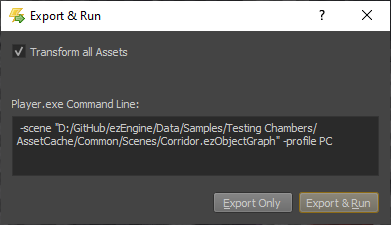
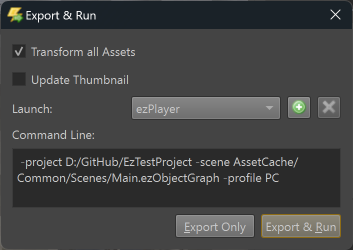
Various smaller updates about recent changes
Original commit: d71f58ced804a63b246f53e7b0889f1a1698aec6

diff --git a/pages/docs/materials/materials-overview.html b/pages/docs/materials/materials-overview.html
@@ -113,18 +113,21 @@
 <p>For testing transparent materials it may be useful to create an object in a scene and observe it there, where you can place it in front of different backgrounds.</p>
 <p><strong>Shading Mode:</strong> This mode allows you to select whether objects with this material should receive realistic <em>lighting</em> or should always appear <em>fullly bright</em>. The latter is useful for 2D sprites and UI elements.</p>
 <p><strong>Two Sided:</strong> If enabled, polygons with this material can be seen from both sides. This is useful for fences, vegetation and other <em>masked</em> geometry that is often represented only by a single polygon but can be looked at from both sides.</p>
-<p><strong>MaskThreshold:</strong> Used for the <em>Masked</em> blend mode (see above).</p>
-<p><strong>UseBaseTexture:</strong> If enabled, the <em>Base Texture</em> is used to color the object. This requires proper UV coordinates on the mesh.</p>
 <p><strong>Base Color:</strong> The base color of the material. When no <em>base texture</em> is used, this is its only color, otherwise it is multiplied into the base texture color.</p>
-<p><strong>UseNormalAndRoughnessTexture:</strong> If enabled, the shader uses the <em>Normal Texture</em> to apply <em>normal mapping</em> and the <em>Roughness Texture</em> to determine how rough the surface is. These affect the quality of lighting on the objects.</p>
-<p><strong>Roughness Value:</strong> If no <em>Roughness Texture</em> is given, this is the fallback roughness value to use for lighting. The rougher a material is (value closer to one), the more <em>diffuse</em> the lighting will be (stone, cloth, etc). The smoother the material is (value closer to zero), the more pronounced specular highlights it will have (glass, ceramic).</p>
-<p><strong>UseMetallicTexture:</strong> If enabled, a dedicated <em>Metallic Texture</em> is used to specify per pixel whether it is a metal or not. In physics, a material is either a metal or not, in computer graphics values in between are allowed and used to blend between the two results.</p>
-<p><strong>Metallic Value:</strong> If no <em>Metallic Texture</em> is provided, this is the fallback value. Typically this should be <code>1</code> for metals and <code>0</code> for all other material types.</p>
-<p><strong>UseEmissiveTexture:</strong> If enabled, the <em>Emissive Texture</em> is used to define per pixel where the material will <em>glow</em>. This is multiplied with the <em>EmissiveColor</em>, so make sure that is not set to black (its default).</p>
-<p><strong>EmissiveColor:</strong> An additional overall emissive color. If an <em>Emissive Texture</em> is activated, these two colors are multiplied, so you need to set this to <em>white</em> for the texture to have an effect. This is an HDR color, so you can scale up its <em>intensity</em> and thus pronounce the glow even further.</p>
+<p><strong>UseBaseTexture:</strong> If enabled, the <em>Base Texture</em> is used to color the object. This requires proper UV coordinates on the mesh.</p>
+<p><strong>MaskThreshold:</strong> Used for the <em>Masked</em> blend mode (see above).</p>
+<p><strong>UseNormalTexture:</strong> If enabled, the shader uses the <em>Normal Texture</em> to apply <em>normal mapping</em>.</p>
 <p><strong>UseOcclusionTexture:</strong> If enabled, an <em>OcclusionTexture</em> is used to affect lighting and to pronounce crevices. The effect of this can be very subtle.</p>
-<h2 id="render-modes">Render Modes</h2>
-<p>The 3D viewport of the material editor allows you to switch <a href="../editor/editor-views.html#render-modes">render modes</a> to inspect only specific aspects of the material.</p>
+<p><strong>Roughness Value:</strong> If no <em>Roughness Texture</em> is given, this value is used for lighting. If a roughness texture is available, this value is multiplied into the texture's value. The rougher a material is (value closer to one), the more <em>diffuse</em> the lighting will be (stone, cloth, etc). The smoother the material is (value closer to zero), the more pronounced specular highlights it will have (glass, ceramic).</p>
+<p><strong>UseRoughnessTexture:</strong> If enabled, the shader uses the <em>Roughness Texture</em> to determine how rough the surface is. The texture's value is multiplied with the <em>Roughness Value</em> so make sure to set that <code>1</code> to get the exact result.</p>
+<p><strong>Metallic Value:</strong> If no <em>Metallic Texture</em> is provided, this is the fallback value. Typically this should be <code>1</code> for metals and <code>0</code> for all other material types.</p>
+<p><strong>UseMetallicTexture:</strong> If enabled, a dedicated <em>Metallic Texture</em> is used to specify per pixel whether it is a metal or not. In physics, a material is either a metal or not, in computer graphics values in between are allowed and used to blend between the two results.</p>
+<p><strong>UseOrmTexture:</strong> If enabled, a dedicated <em>Occlusion / Roughness / Metallic (ORM) Texture</em> is used to specify these values per pixel. This takes precedence over the individual <em>UseOcclusionTexture</em>, <em>UseRoughnessTexture</em> and <em>UseMetallicTexture</em> options and if individual textures are also specified, they are not going to be used. ORM textures pack these three values into 3 channels (<em>Red = Occlusion</em>, <em>Green = Roughness</em>, <em>Blue</em> = <em>Metallic</em>) which is generally more efficient, though it means you can't have different resolutions for each texture.</p>
+<p><strong>EmissiveColor:</strong> An additional overall emissive color. If an <em>Emissive Texture</em> is activated, these two colors are multiplied, so you need to set this to <em>white</em> for the texture to have an effect. This is an HDR color, so you can scale up its <em>intensity</em> and thus pronounce the glow even further.</p>
+<p><strong>UseEmissiveTexture:</strong> If enabled, the <em>Emissive Texture</em> is used to define per pixel where the material will <em>glow</em>. This is multiplied with the <em>EmissiveColor</em>, so make sure that is not set to black (its default).</p>
+<h2 id="material-preview">Material Preview</h2>
+<p>The 3D viewport of the material editor allows you to switch the <a href="../editor/editor-views.html#render-modes">render mode</a> to inspect only specific aspects of the material.</p>
+<p>Using the <em>eye dropdown menu</em> you can also select different meshes for previewing the material on.</p>
 <h2 id="see-also">See Also</h2>
 <ul>
 <li><a href="visual-shaders.html">Visual Shaders (TODO)</a></li>

diff --git a/pages/docs/editor/run-scene.html b/pages/docs/editor/run-scene.html
@@ -88,7 +88,9 @@
 <p>Some objects will also be spawned by the simulation, and therefore are unknown to the editor side. Those objects cannot be picked or modified.</p>
 <p>In general, modifying the scene during simulation will work for some objects, and won't work for others. The only way to find out, is to try it. Once the simulation is stopped, though, all modifications will be applied as expected, to the reset scene.</p>
 <h3 id="keep-simulation-changes">Keep Simulation Changes</h3>
-<p>This mode is useful to quickly check how some object behaves. It can also be used to simulate physical objects (e.g. boxes falling down) and then to save that simulated transform to the scene, by selecting them and pressing <code>K</code> (or <em>Scene &gt; Utilities &gt; Keep Simulation Changes</em>).</p>
+<p>The <em>simulate mode</em> is useful to quickly check how some object behaves. It can also be used to simulate physical objects (e.g. boxes falling down) and then save that simulated transform to the scene.</p>
+<p>While the simulation is active, select the objects that you are interested in and press <code>K</code> (or <em>Scene &gt; Utilities &gt; Keep Simulation Changes</em>). Once you stop the simulation, an undoable action is executed that moves the selected objects to the recorded location.</p>
+<p>You can record multiple <em>keep changes</em> actions during one simulation.</p>
 <h2 id="play-the-game-mode">Play the Game Mode</h2>
 <p>The <em>Play-the-Game Mode</em> (PTG) is activated with the <em>Controller</em> button in the toolbar or by pressing <code>CTRL+F5</code>. It is deactivated with the <em>Stop</em> button in the editor toolbar, by pressing <code>ESC</code> while the PTG window has focus.</p>
 <p><img src="media/toolbar-simulate-buttons.png" alt="Toolbar buttons for scene simulation"></p>
@@ -101,6 +103,7 @@
 <p>Another way to test the scene is to export it to a binary format and run it in the <a href="../tools/player.html">ezPlayer</a>. You do so using <em>Scene &gt; Export and Run...</em> or by pressing <code>CTRL+E</code>.</p>
 <p><img src="media/export-and-run.png" alt="Export and Run"></p>
 <p>If you keep <code>Transform all Assets</code> checked, all <a href="../assets/assets-overview.html">assets</a> in the project will be <em>transformed</em> first, making sure they are up-to-date. You can uncheck this, to speed up the process, if you know that all assets that you require are up-to-date already.</p>
+<p><code>Update Thumbnail</code> will use the <a href="../graphics/camera-component.html">scene camera</a> with the <em>Thumbnail</em> usage hint, to create a scene thumbnail.</p>
 <p>Both <em>Simulate Mode</em> and <em>Play-the-Game Mode</em> run inside the editor process. Compared to a game running in a stand-alone process this has two drawbacks:</p>
 <ol>
 <li>The editor process limits the maximum framerate, and has some performance overhead of its own, so this is not useful for performance testing.</li>
@@ -110,6 +113,8 @@
 <p><strong>Important:</strong></p>
 <p>If a scene is composed of multiple <a href="../scenes/scene-layers.html">scene layers</a>, only the objects from the currently <em>loaded</em> layers are exported.</p>
 </blockquote>
+<h3 id="custom-player-executable">Custom Player Executable</h3>
+<p>In the <em>export and run</em> dialog you can add a custom executable to run instead of the default <a href="../tools/player.html">ezPlayer</a> application. Use this, if you have a custom game application. The command line used is the same as for ezPlayer as shown in the dialog.</p>
 <h2 id="see-also">See Also</h2>
 <ul>
 <li><a href="../tools/player.html">ezPlayer</a></li>

diff --git a/pages/docs/tools/player.html b/pages/docs/tools/player.html
@@ -80,12 +80,17 @@
             <article class="content wrap" id="_content" data-uid="">
 <h1 id="ezplayer">ezPlayer</h1>
 
-<p>The ezPlayer is a stand-alone application that can run any ezEngine game that is properly embedded in its own DLL. The ezEditor can launch a scene directly in the ezPlayer application. The ezPlayer is meant for testing and as a very slim example of how to write a custom game application.</p>
+<p>The ezPlayer is a stand-alone application that can run any ezEngine game that is properly embedded in its own DLL. The ezEditor can <a href="../editor/run-scene.html">launch a scene</a> directly in the ezPlayer application. The ezPlayer is meant for testing and as a very slim example of how to write a custom game application.</p>
 <h2 id="arguments">Arguments</h2>
 <p>The Player takes these command line arguments:</p>
-<pre><code class="lang-cmd">Player.exe -scene &quot;path/to/exported/scene.ezObjectGraph&quot; [-wnd &quot;optional/path/to/Window.ddl&quot;] [-profile &quot;OptionalAssetProfileName&quot;]
+<pre><code class="lang-cmd">Player.exe -project &quot;ProjectPath&quot; -scene &quot;ScenePath&quot; [-wnd &quot;optional/path/to/Window.ddl&quot;] [-profile &quot;OptionalAssetProfileName&quot;]
 </code></pre>
-<p>Typically you only need to pass the path to the <em>exported</em> scene (or prefab) file. The other options are used by the <a href="../../getting-started/editor-overview.html">ezEditor</a> to select different configurations.</p>
+<p>With:</p>
+<ul>
+<li><code>ProjectPath</code>: The absolute path to the project directory.</li>
+<li><code>ScenePath</code>: A relative path to a scene file. It is relative to the <a href="../projects/data-directories.html">data directory</a> that it resides in. If it is a path to an <code>.ezScene</code> or <code>.ezPrefab</code> file, ezPlayer automatically redirects the path to the corresponding exported <code>.ezObjectGraph</code> file in the <em>AssetCache</em>.</li>
+</ul>
+<p>Typically you only need to pass the path to the project and scene (or prefab) file. The other options are used by the <a href="../../getting-started/editor-overview.html">ezEditor</a> to select different configurations.</p>
 <h2 id="execution">Execution</h2>
 <p>The Player will automatically detect the <a href="../projects/projects-overview.html">projects</a> directory by searching the file system for an ezProject file. It then executes the core ezEngine functionality, meaning it reads the configuration for the <a href="../projects/data-directories.html">data directories</a> as well as the <a href="../custom-code/cpp/engine-plugins.html">engine plugins</a> from the project config files. If the scene requires custom (game) plugins, they must be referenced in those config files.</p>
 <p>Then it will execute the regular game loop. Thus, if the scene contains game objects to spawn a character controller or otherwise handle input and move the camera, you will be able to interact with it. If a custom <a href="../custom-code/cpp/engine-plugins.html">plugin</a> implements a custom <a href="../runtime/application/game-state.html">game state</a> that will be instantiated and can take full control over the application logic. If no such functionality is available, the Player will instantiate the <code>ezFallbackGameState</code> which will spawn a player object, if a <code>ezPlayerStartPointComponent</code> is part of the scene. Otherwise it will provide a simple WASD camera movement scheme. If <code>ezCameraComponent</code>s are placed in the scene, you can cycle through them using <code>Page Up</code> and <code>Page Down</code>.</p>

diff --git a/pages/docs/editor/editor-settings.html b/pages/docs/editor/editor-settings.html
@@ -89,15 +89,23 @@
 <ul>
 <li><p><strong>RestoreProjectOnStartup:</strong> If enabled, the editor will load the project that was open the last time.</p>
 </li>
+<li><p><strong>ShowSpashscreen:</strong> Disable this to not have a splashscreen show up every time the editor starts.</p>
+</li>
 <li><p><strong>BackgroundAssetProcessing:</strong> If set, background <a href="../assets/assets-overview.html">assets processing</a> will be activated by default, when you open a project.</p>
 </li>
 <li><p><strong>FieldOfView:</strong> The FOV of the generic editor camera.</p>
 </li>
 <li><p><strong>GizmoScale:</strong> Allows you to change the size of the editor gizmos.</p>
 </li>
-<li><p><strong>UsePrecompiledTools:</strong> If enabled, the editor will prefer to use the tools under <code>Data\\Tools\\Precompiled</code>, rather than the ones from its own binary directory. The precompiled tools are built with maximum optimizations and are therefore typically faster, however, they only get updated infrequently and may not have all the latest features and bugfixes.</p>
+<li><p><strong>ShowInDevelopmentFeatures:</strong> Some features (mainly <a href="../runtime/world/components.html">components</a>) are hidden by default from menus. That's because those features are not considered ready to be used productively. If you do want to try them out regardless, check this option for them to show up.</p>
+</li>
+<li><p><strong>UsePrecompiledTools:</strong> If enabled, the editor will prefer to use the tools under <code>Data\Tools\Precompiled</code>, rather than the ones from its own binary directory. The precompiled tools are built with maximum optimizations and are therefore typically faster, however, they only get updated infrequently and may not have all the latest features and bugfixes.</p>
 </li>
 <li><p><strong>ExpandSceneTreeOnSelection:</strong> If enabled, selecting an object in a scene will automatically expand the corresponding item in the scene tree view. If disabled, the scene tree will not change on selection from the viewport, and jumping to the selected tree item has to be done manually using <code>CTRL+T</code>.</p>
+</li>
+<li><p><strong>ClearEditorLogsOnPlay:</strong> If enabled, the engine log gets cleared every time you <a href="run-scene.html">run a scene</a>.</p>
+</li>
+<li><p><strong>Engine View Light Settings:</strong> Many <a href="../assets/assets-overview.html">assets</a> have 3D previews that require lighting. These are the lighting settings to use.</p>
 </li>
 </ul>
 <h2 id="shortcuts">Shortcuts</h2>

diff --git a/pages/docs/build/build-windows.html b/pages/docs/build/build-windows.html
@@ -97,7 +97,7 @@
 <li><em>.Net Desktop Development</em></li>
 </ul>
 <h3 id="cmake-optional">CMake (optional)</h3>
-<p><a href="https://cmake.org/">CMake</a> is used as the build system. On Windows you only need to install CMake, if you want to use the CMake GUI to choose custom <a href="cmake-config.html">CMake configurations</a>. If you only use the provided <code>GenerateXYZ.bat</code> scripts, those will use a <code>cmake.exe</code> that comes with the EZ repository.</p>
+<p><a href="https://cmake.org/">CMake</a> is used as the build system. On Windows you only need to install CMake if you want to use the CMake GUI to choose custom <a href="cmake-config.html">CMake configurations</a>. If you only use the provided <code>GenerateXYZ.bat</code> scripts, those will use a <code>cmake.exe</code> that comes with the EZ repository.</p>
 <h2 id="generate-the-solution">Generate the Solution</h2>
 <h3 id="using-the-generate-scripts">Using the Generate Scripts</h3>
 <p>In the root folder of the EZ repository you will find a couple of <code>.bat</code> files, such as:</p>
@@ -105,7 +105,7 @@
 <li><code>GenerateWin64vs2019.bat</code></li>
 <li><code>GenerateWin64vs2022.bat</code></li>
 </ul>
-<p>Run one of them to generate a Visual Studio solution for your preferred compiler. If these scripts fail, you most likely don't have all the <a href="#prerequisites">prerequisites</a> installed. They also sometimes fail, if Visual Studio recently installed an update and you haven't rebooted your PC since.</p>
+<p>Run one of them to generate a Visual Studio solution for your preferred compiler. If these scripts fail, you most likely don't have all the <a href="#prerequisites">prerequisites</a> installed. They also sometimes fail, if Visual Studio recently installed an update and you haven't rebooted your PC since. Usually when this script fails it is due to common issues with CMake or the MSVC installation. Read the error messages carefully and search the internet, you'll usually find a solution quickly.</p>
 <p>Once the script finished successfully, there will be a <strong>Workspace</strong> folder in the EZ root folder. You fill find a <code>ezEngine_***.sln</code> file in the respective folder for the Visual Studio version that you chose.</p>
 <h3 id="manually-running-cmake">Manually Running CMake</h3>
 <p>This step requires that you install <a href="#cmake-optional">CMake</a> yourself.</p>

diff --git a/pages/docs/physics/jolt/collision-shapes/jolt-collision-meshes.html b/pages/docs/physics/jolt/collision-shapes/jolt-collision-meshes.html
@@ -86,8 +86,10 @@
 <p><img src="../media/jolt-colmesh-concave.jpg" alt="Concave Collision Mesh"></p>
 <p>The image above shows a mesh imported as a concave collision mesh. As you can see it represents every detail faithfully. Due to this complexity, the model can only be used for static <a href="../actors/jolt-actors.html">physics actors</a>, meaning you can place it in a level, scale and rotate it, but you may not move it dynamically during the game and it cannot be used to simulate a rigid body. The complexity of a mesh has direct impact on the performance of the game. Especially small details may result in large computational costs when dynamic objects collide with those detailed areas. If you want to optimize performance, you should author dedicated collision meshes with reduced complexity, instead of using the render mesh directly.</p>
 <p>Concave collision meshes are set directly on the <a href="../actors/jolt-actors.html">static physics actor</a> component and have no dedicated <a href="jolt-shapes.html">physics shape</a> component.</p>
+<p>Triangle meshes can use a different <a href="../../../materials/surfaces.html">surface</a> for each submesh.</p>
 <h2 id="convex-collision-meshes">Convex Collision Meshes</h2>
 <p>The simulation of <a href="../actors/jolt-dynamic-actor-component.html">dynamic actors</a> is only possible with convex shapes. To create a convex collision mesh, use the asset type <em>Jolt Convex Collision Mesh</em> when <a href="../../../assets/import-assets.html">importing an asset</a>. To attach a convex mesh to an actor, use the <a href="jolt-convex-shape-component.html">convex mesh shape component</a>.</p>
+<p>Convex meshes may only use a single <a href="../../../materials/surfaces.html">surface</a>, even if the mesh is made up of multiple convex pieces.</p>
 <p>There are multiple modes how to create the convex collision mesh:</p>
 <h3 id="convex-hull">Convex Hull</h3>
 <p><img src="../media/jolt-colmesh-convex.jpg" alt="Convex Hull Collision Mesh"></p>
@@ -106,6 +108,7 @@
 <li><a href="../actors/jolt-actors.html">Jolt Physics Actors</a></li>
 <li><a href="jolt-collision-layers.html">Jolt Collision Layers</a></li>
 <li><a href="../jolt-debug-visualizations.html">Jolt Debug Visualizations</a></li>
+<li><a href="../../../materials/surfaces.html">Surfaces</a></li>
 </ul>
 </article>
           </div>

diff --git a/pages/docs/animation/skeletal-animation/skeletal-animation-overview.html b/pages/docs/animation/skeletal-animation/skeletal-animation-overview.html
@@ -119,9 +119,13 @@
 <h3 id="joint-override-component">Joint Override Component</h3>
 <p>The <a href="joint-override-component.html">joint override component</a> is the opposite to the <em>joint attachment component</em>. It works similar in that it has to be attached to a child object of an animated mesh and you have to type in the name of a bone. However, it will then <em>override</em> the specified <strong>bone's local transform</strong> with its <strong>own local transform</strong>. The idea here is, that game code can use this game object as a controller to steer the animated object. So for example your turret might be one complex animated object, with many bones but somewhere in the bone hierarchy there is one bone that controls the turrets aim (up/down or left/right or both). You want cool animations to &quot;unfold&quot; the turret when it is built and all sorts of other animations that are only possible with proper skeletal animation, but once the game runs you also want to procedurally control where the turret is aiming. Using this component you can take control of certain bones and drive their animation yourself.</p>
 <p>In the sample scene there are two objects for each turret that override two bones: one for left/right rotation and one for pointing up/down. You can manually modify these values from the property grid, while the editor is in play mode, to control the turrets aim. Note how the recoil animation continues to play properly relative to the turret's main direction.</p>
-<h2 id="future-work">Future Work</h2>
-<p>Work on the animation system is ongoing. For a list of planned features, <a href="https://github.com/ezEngine/ezEngine/projects/12">have a look here</a>.</p>
 <h2 id="see-also">See Also</h2>
+<ul>
+<li><a href="animated-mesh-asset.html">Animated Mesh Asset</a></li>
+<li><a href="skeleton-asset.html">Skeleton Asset</a></li>
+<li><a href="animation-clip-asset.html">Animation Clip Asset</a></li>
+<li><a href="animation-controller/animation-controller-overview.html">Animation Controller</a></li>
+</ul>
 </article>
           </div>
           

diff --git a/pages/docs/physics/jolt/actors/jolt-dynamic-actor-component.html b/pages/docs/physics/jolt/actors/jolt-dynamic-actor-component.html
@@ -116,6 +116,7 @@
 <ul>
 <li><code>CollisionLayer</code>: The <a href="../collision-shapes/jolt-collision-layers.html">collision layer</a> to use.</li>
 <li><code>Kinematic</code>: See <a href="#kinematic-vs-simulated">Kinematic vs. Simulated</a> above.</li>
+<li><code>StartAsleep</code>: If enabled, the actor starts in the 'sleeping' state and will not be physically simulated until it gets into contact with another active actor. This is a performance optimization to prevent performance spikes after loading a level. If used badly, an object can float in air and not fall down until something else touches it. Make sure to only use this on objects that are <a href="../../../editor/run-scene.html#keep-simulation-changes">convincingly placed</a> to begin with.</li>
 <li><code>Mass</code>, <code>Density</code>: See <a href="#mass-vs-density">Mass vs. Density</a> above.</li>
 <li><code>Surface</code>: The <a href="../../../materials/surfaces.html">surface</a> to use for this actor's shapes. The surface determines the friction and restitution during simulation, but also determines what effects are spawned when you interact with the object. Note that <a href="../collision-shapes/jolt-collision-meshes.html">collision meshes</a> already specify the surface to use. If a surface is selected on the actor, it overrides the mesh's surface.</li>
 <li><code>GravityFactor</code>: Adjusts the influence of gravity on this object. If set to zero, it will float in space.</li>

diff --git a/pages/docs/animation/common/curves.html b/pages/docs/animation/common/curves.html
@@ -124,6 +124,8 @@
 <h3 id="looping-curves">Looping Curves</h3>
 <p>The rightmost control point determines the overall length of the curve. As you can see, the editor repeats the display of the curve at that point, overlayed with a grey pattern. This enables you to see how the curve would look when used in a looping fashion.</p>
 <p>To make a curve loop nicely, open the context menu and select <em>Curve &gt; Loop: Adjust First/Last Point</em>. This will modify either the first or the last control point in the curve to match up with the respective other point. Make sure that the two control points use the same <em>tangent mode</em>. You may need to switch to <em>Bezier</em> or <em>Fixed Length</em> tangents to make the curvature match perfectly.</p>
+<h3 id="curve-presets">Curve Presets</h3>
+<p>In the context menu under <em>Presets</em> you will find a number of presets for commonly used curves. You can also save the current curve as a <strong>preset</strong>. You can save presets anywhere, but as long as you save it under the path <em>Editor/Presets/Curves</em> (in any <a href="../../projects/data-directories.html">data directory</a>), it will automatically show up in the context menu. You can also use sub-folders to organize presets, as folders will introduce sub-menus.</p>
 <h2 id="see-also">See Also</h2>
 <ul>
 <li><a href="color-gradients.html">Color Gradients</a></li>

diff --git a/pages/docs/assets/asset-browser.html b/pages/docs/assets/asset-browser.html
@@ -97,6 +97,8 @@
 <p>Below the search field, all available asset types are listed with checkboxes. Click the checkboxes to only display assets of those types. Click <em>&lt;All&gt;</em> or uncheck all asset types to display assets of all types.</p>
 <h2 id="filter-by-folder">Filter by Folder</h2>
 <p>On the bottom left the asset browser displays all <a href="../projects/data-directories.html">data directories</a>. When you select a folder in this tree view, the asset browser will only display assets located below that folder.</p>
+<h3 id="filter-to-this-path">Filter to this Path</h3>
+<p>You can right-click on any asset and select <strong>Filter to this Path</strong> to set the folder filter to the path in which the selected asset resides. This is useful when you already see an asset in the browser but are interested in an asset that you know is located next to that asset (same folder or sub-folder).</p>
 <h3 id="show-assets-in-sub-folders">Show Assets in Sub-Folders</h3>
 <p>Right click on a folder and toggle <strong>Show items in sub-folders</strong>. When enabled (the default) the asset browser shows <em>all</em> assets that are anywhere below a selected folder. When disabled, only the assets that are directly inside the a selected folder are shown. Assets that are in a sub-folder are not displayed.</p>
 <h3 id="hidden-folders">Hidden Folders</h3>

diff --git a/pages/docs/animation/skeletal-animation/animated-mesh-asset.html b/pages/docs/animation/skeletal-animation/animated-mesh-asset.html
@@ -100,8 +100,9 @@
 </ul>
 <h2 id="see-also">See Also</h2>
 <ul>
-<li><a href="skeletal-animation-overview.html">Skeletal Animations</a></li>
+<li><a href="animated-mesh-component.html">Animated Mesh Component</a></li>
 <li><a href="skeleton-asset.html">Skeleton Asset</a></li>
+<li><a href="skeletal-animation-overview.html">Skeletal Animations</a></li>
 <li><a href="animation-clip-asset.html">Animation Clip Asset</a></li>
 <li><a href="simple-animation-component.html">Simple Animation Component</a></li>
 </ul>

diff --git a/pages/docs/ai/recast.html b/pages/docs/ai/recast.html
@@ -83,6 +83,10 @@
 <!-- PAGE IS TODO -->
 <p>The Recast integration is functional, but not yet ready to be used productively.
 Help improving it is very much appreciated.</p>
+<blockquote>
+<p><strong>Note:</strong></p>
+<p>You have to enable <strong>ShowInDevelopmentFeatures</strong> in the <a href="../editor/editor-settings.html">editor settings</a> for this component to show up.</p>
+</blockquote>
 <h2 id="see-also">See Also</h2>
 <ul>
 <li><a href="recast-navmesh.html">Recast Navmesh</a></li>
